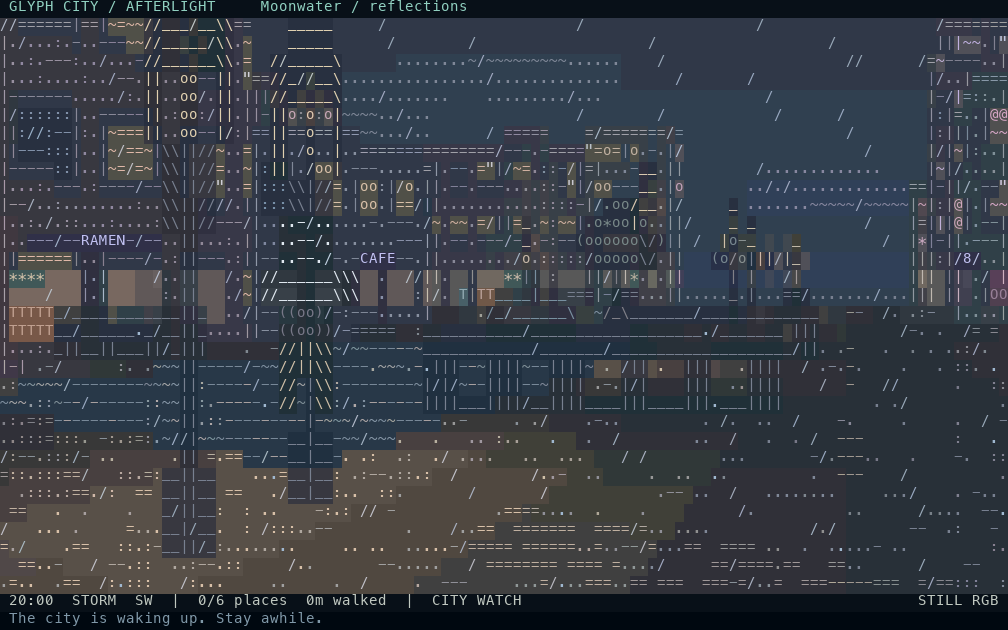
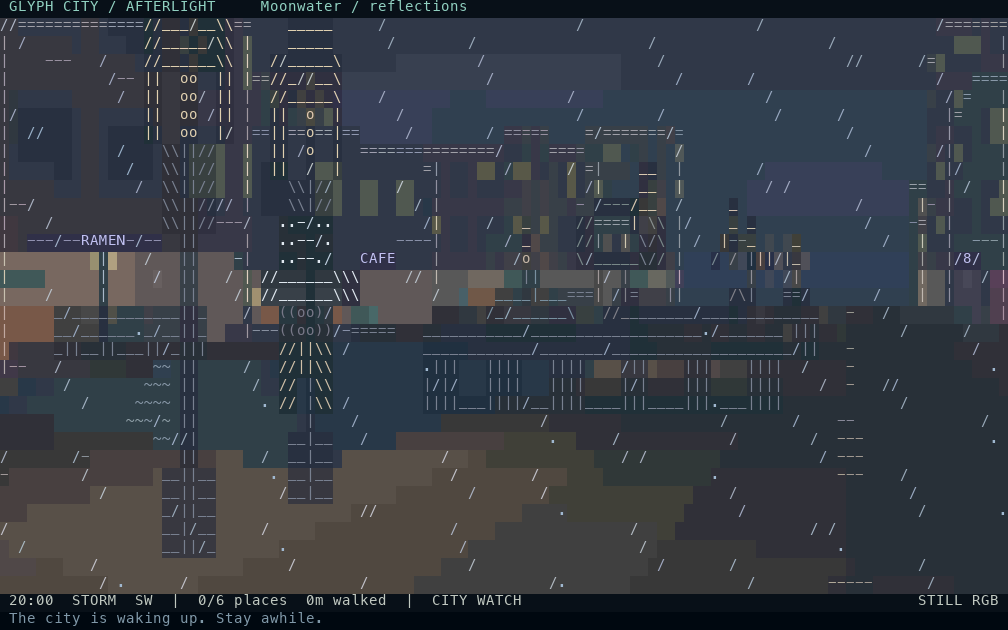
Reduce environmental ASCII noise

diff --git a/glyph_city/render.py b/glyph_city/render.py
@@ -111,13 +111,13 @@ def cell(ch, fg, bg):
 
 
 ART = {
-    'tree': (('   .-oo-.   ',' .o*oooo*o. ','(ooo*oooooo)',' `oo*ooo*-\' ','    ||     ','    ||     ','   /__\\    '),2.6,4.2),
+    'tree': ((' .---. ','/     \\','\\_____/','   |   ','   |   ','  /_\\  '),2.6,4.2),
     'lamp': (('  ___  ',' /___\\ ',' | o | ','  \\|/  ','   |   ','   |   ','   |   ','  _|_  '),.75,3.8),
     'bench': ((' _______ ','|=======|','|_______|',' ||   || '),1.9,.9),
     'flowers': ((' * . * ','\\|/*|/','[=====]',' \\___/ '),1.1,.85),
     'fountain': (('    .    ','  . | .  ',' . \\|/ . ','  \\ | /  ',' ~~~|~~~ ','(=======)',' \\_____/ '),2.8,2.3),
     'rail': (('___________','| | | | | |','|_|_|_|_|_|'),4,.9),
-    'stall': (('  /=====\\  ',' /_/___\\_\\ ',' |       | ',' | [tea] | ',' |=======| '),2.6,2.2),
+    'stall': (('  /---\\  ',' /     \\ ',' | tea | ',' |_____| '),2.6,2.2),
     # People use a wider silhouette so they remain legible in rain and at
     # terminal sizes where a one-column body disappears into facade texture.
     'person': (('  o  ',' /|\\ ',' /|\\ ',' / \\ '),.86,2.05),
@@ -220,9 +220,10 @@ class Renderer:
                              +.5*math.sin(az*13-ratio*11+world.time*.015))
                     ch, fg, cbg = ' ',scale(bg,1.2),bg
                     if .17 < ratio < .76 and cloud > 1.1-world.cloud*.75:
-                        ch = '~' if cloud>1.15 else '.'
                         fg = mix(bg,(206,199,186),.22+.28*day)
-                        cbg = mix(bg,fg,.15)
+                        # Cloud mass reads through its color, not a sheet of
+                        # repeated dots and tildes behind the buildings.
+                        cbg = mix(bg,fg,.28)
                     elif self.night>.6 and world.cloud<.5:
                         star = grain(int((az%TAU)*135),int(ratio*65),self.city.seed)
                         if star%127==0:
@@ -255,10 +256,9 @@ class Renderer:
                 for r in range(top_r,bottom_r+1):
                     z = eye+(horizon-r-.5)*dist/self.fy
                     if not 0<=z<=b.height or dist>depths[r][c]+.02: continue
-                    bay=u%1.65
                     level=z%2.8
-                    if (int(z/2.8)==0 and .18<bay<1.48 and
-                            .62<level<1.78 and .22<u<span-.22):
+                    if (int(z/2.8)==0 and .35<level<2.08
+                            and .22<u<span-.22):
                         normal=abs(dx if side==0 else dy)
                         tangent=(dy if dx>0 else -dy) if side==0 else (-dx if dy>0 else dx)
                         depth=min(4.5,(b.x1-b.x0) if side==0 else (b.y1-b.y0))
@@ -281,14 +281,14 @@ class Renderer:
                             rx,ry = coords
                             if (self.surface[rr][c]<0 and dist<reflection_depth[rr][c]
                                     and dist<32
-                                    and reflection_noise(rx,ry,city.seed,reflection_tick_value)%9!=0):
+                                    and reflection_noise(rx,ry,city.seed,reflection_tick_value)%9<2):
                                 oldch,oldfg,oldbg = buf[rr][c]
                                 # Reflections are glints on the pavement, not
                                 # a second opaque wall. Preserve lane marks,
                                 # sprites and existing road texture.
                                 if oldch in (' ','.',':','~'):
                                     alpha = world.wet*strength*(.045+.11*self.night)
-                                    buf[rr][c] = cell(':' if (rr+c)%4 else '.',
+                                    buf[rr][c] = cell(oldch,
                                                       mix(oldfg,fg,alpha),
                                                       mix(oldbg,fg,alpha*.22))
                                     reflection_depth[rr][c] = dist
@@ -315,7 +315,7 @@ class Renderer:
                 right=c==self.cols-1 or self.surface[r][c+1]!=bid
                 top=r==0 or self.surface[r-1][c]!=bid
                 ch,fg,bg=self.buffer[r][c]
-                if not (left or right or top) or ch not in (' ','.',':','-'):
+                if not (top or (left and c%3==0) or (right and c%3==0)) or ch not in (' ','.',':','-'):
                     continue
                 b=self.city.buildings[bid]
                 edge=mix(fg,(226,213,171),.34 if top else .22)
@@ -367,37 +367,37 @@ class Renderer:
         day,night,w = self.day,self.night,self.world
         ix,iy = math.floor(x),math.floor(y)
         if not 0<=ix<SIZE or not 0<=iy<SIZE or dist>FAR:
-            return cell('.',scale(self.fog,.9),scale(self.fog,.7))
+            return cell(' ',scale(self.fog,.9),scale(self.fog,.7))
         tile = self.city.tiles[iy][ix]
         h = grain(int(x*9),int(y*9),self.city.seed)
         light = local_light(self.city.glow[iy][ix],night,w.lantern and dist<9)
         bases = {'r':(58,68,78),'p':(108,106,99),'g':(45,91,68),'b':(119,103,82),'w':(34,84,103)}
         base = bases[tile]
         if tile=='w':
-            ripple=math.sin(x*3+y*2+w.time*1.6)
+            ripple=math.sin(x*.65+y*.45+w.time*.55)
             bg=mix(scale(base,.28+.72*day),self.fog,.18)
             fg=mix(bg,(141,184,184),.24+.22*max(0,ripple))
-            ch='~' if ripple>.2 else '-'
-            if night>.5 and h%9<2: fg=mix(fg,(226,168,106),.5)
+            bg=mix(bg,fg,max(0,ripple)*.18)
+            # Broad, sparse wave crests leave most of the water quiet.
+            ch='~' if dist<22 and ripple>.985 else ' '
         else:
             shade=shadow_band(x,y,self.city.seed)
             bg=scale(base,(.27+.60*day)*shade)
             fg=scale(base,(.58+.58*day)*shade)
-            ch='.' if h%7==0 else ' '
+            ch=' '
             if tile=='g':
-                ch=(',',"'",'.',';')[h%4] if h%3 else ' '
                 fg=scale((74,131,83),.3+.65*day)
-            elif tile in ('p','b'):
-                if x%1<.075 or y%1<.075: ch=':' if tile=='p' else '='
-                elif h%11==0: ch='.'
+            elif tile=='b' and dist<16:
+                if y%3<.06: ch='-'
             elif tile=='r':
                 ax=abs(x%24-12); ay=abs(y%24-12)
                 if ax<.09 and int(y/1.7)%3<2 and ay>3:
                     ch='|'; fg=scale((230,190,111),.5+.5*day)
                 elif ay<.09 and int(x/1.7)%3<2 and ax>3:
                     ch='-'; fg=scale((230,190,111),.5+.5*day)
-                elif ((3.0<ay<4.1 and ax<2.1) or (3.0<ax<4.1 and ay<2.1)) and h%3:
-                    ch='='; fg=scale((187,188,168),.35+.65*day)
+                elif ((3.0<ay<4.1 and ax<2.1) or (3.0<ax<4.1 and ay<2.1)):
+                    # Crossings are light bands instead of noisy equals.
+                    bg=mix(bg,scale((187,188,168),.35+.65*day),.35)
             if light:
                 bg=mix(bg,(134,97,55),min(.86,light*.78))
                 fg=mix(fg,(246,194,112),min(.92,light*.92))
@@ -406,7 +406,6 @@ class Renderer:
                 wet = w.wet * wetness
                 bg=mix(bg,scale(bg,.62),wet)
                 if h%17<3:
-                    ch='-' if h%2 else '.'
                     fg=mix(fg,self.fog,wet*.6)
             if w.lantern and dist<9:
                 beam=max(0,1-dist/9)*max(0,1-abs(c-self.cols/2)/(self.cols*.38))
@@ -439,7 +438,6 @@ class Renderer:
         # Keep near wall edges above the night fog floor so building shapes
         # read as planes instead of dissolving into the background.
         shade=(.58+.64*day)*(1 if side else .90)
-        shade*=shadow_band(b.x0+u,b.y0+z,b.seed)
         if self.world.lantern: shade+=max(0,1-dist/9)*.38
         base=mix(b.color,(224,153,101),self.sunset*.2)
         fg,bg=scale(base,shade),scale(base,shade*(.36+.10*day))
@@ -452,34 +450,27 @@ class Renderer:
         elif story==0 and 2.15<z<2.5 and abs(u-span/2)<len(b.sign)*.26:
             ch='-'; fg=scale(b.neon,.5); bg=scale(b.neon,.14); emits=True
         elif .18<bay<1.48 and .48<level<2.24:
-            lit=(grain(int(u/1.65),story,b.seed)%100)<(18+night*68)
-            # Thick mullions make each pane read as glass instead of one
-            # continuous colored wall when a facade is close to the camera.
+            lit=(grain(int(u/1.65),story,b.seed)%100)<(18+night*42)
+            # Frames and room surfaces use color blocks. Filling every pane
+            # with furniture glyphs used to obscure the building silhouette.
             edge=bay<.36 or bay>1.30 or level<.82 or level>1.98
             if edge:
-                ch='|' if .82<level<1.98 else '-'
+                ch=' '
                 fg=scale(base,shade*.82); bg=scale((24,29,38),.8)
             elif lit:
                 glow=mix((255,190,92),b.neon,.2)
                 glass=mix((20,27,38),glow,.26+.12*night)
                 fg=scale(glow,.9+.3*night); bg=scale(glass,.78)
-                ch, interior=window_interior(b.sign,b.seed,int(u/1.65),story,level)
-                # The colored background is the room behind the glass; the
-                # bright glyph is furniture or a person silhouette inside it.
-                bg=mix(bg,scale(interior,.20+.12*night),.32)
-                fg=mix(fg,interior,.60+.28*night)
-                if grain(int(u*11),int(z*11),b.seed)%13==0:
-                    ch='"'; fg=mix(fg,(210,230,238),.72)
+                ch=' '
                 emits=True
             else:
-                ch=':' if int(level*8)%4 else '-'
+                ch=' '
                 fg=mix((49,89,119),self.fog,.25); bg=scale(fg,.25)
         elif story==0 and abs(u-span/2)<.42 and z<1.9:
             ch='|' if abs(u-span/2)>.3 else '.'
             fg=scale(b.neon,.45); bg=(14,18,24)
         else:
-            ch=':' if (int(z*5)+int(u*6))%5==0 else '.'
-            if dist>28: ch=':' if side else '.'
+            ch=' '
         if hx is not None and hy is not None and not emits:
             ix,iy=math.floor(hx),math.floor(hy)
             if 0<=ix<SIZE and 0<=iy<SIZE:
@@ -601,7 +592,7 @@ class Renderer:
                 ch=art[ar][ac] if ac<len(art[ar]) else ' '
                 if ch==' ' or z>self.depth[r][c]+.05: continue
                 color=p.color
-                if p.kind=='tree': color=(96,148,104) if ar<4 else (137,105,74)
+                if p.kind=='tree': color=(96,148,104) if ar<3 else (137,105,74)
                 elif p.kind=='lamp': color=(255,209,123) if ar<3 else (114,127,139)
                 elif p.kind=='fountain': color=(128,196,215) if ar<5 else (136,147,155)
                 elif p.kind=='bench': color=(175,124,81)

diff --git a/glyph_city/interiors.py b/glyph_city/interiors.py
@@ -87,7 +87,7 @@ def room_pixel(sign, width, depth, u, z, direction):
     if axis==2 and point[2]<.1:
         tile=(int(point[0]*2)+int(point[1]*2))%2
         bg=(88,68,47) if tile else (112,88,61)
-        ch='.' if tile else ' '; fg=(155,125,86)
+        ch=' '; fg=(155,125,86)
         if sign in ('BAR','LOUNGE','18+'):
             bg=(84,36,58) if tile else (112,45,65); fg=(203,84,126)
     elif axis==2:
@@ -97,7 +97,7 @@ def room_pixel(sign, width, depth, u, z, direction):
         if sign in ('BAR','LOUNGE','18+'):
             fg=(232,125,158); bg=(91,37,61) if axis==1 else (55,29,52)
         if 1.25<point[2]<1.85 and abs(point[0]-width*.5)<width*.16:
-            ch='=' if point[2]<1.35 or point[2]>1.75 else '*'
+            ch=' '
             fg=(224,182,99); bg=(45,72,69)
     for bounds,color in furniture(sign,width,depth):
         hit=intersect(origin,direction,bounds)
@@ -106,14 +106,7 @@ def room_pixel(sign, width, depth, u, z, direction):
             factor=(.72,.87,1.0)[side]
             bg=tuple(int(v*factor) for v in color)
             fg=tuple(min(255,int(v*1.25)) for v in color)
-            if sign in ('BAR','LOUNGE','18+'):
-                ch='=' if side==2 else 'O'
-            elif sign in ('BOOKS','VINYL','FLORA'):
-                ch='#' if side==2 else '|'
-            elif sign in ('RAMEN','CAFE','BAKERY'):
-                ch='o' if side==2 else 'T'
-            elif sign=='JAZZ':
-                ch='~' if side==2 else 'o'
-            else:
-                ch='-' if side==2 else '|'
+            # Furniture geometry and face shading carry the shape. A glyph
+            # on every surface sample turns chairs and shelves into stripes.
+            ch=' '
     return ch,fg,bg

diff --git a/CHANGELOG.md b/CHANGELOG.md
@@ -2,6 +2,7 @@
 
 ## Current development
 
+- Simplified facade, pavement, water, cloud, window, and interior glyphs so color blocks and key silhouettes carry the scene without ASCII noise.
 - Reduced wet-road and glass reflection glare to preserve static-view silhouettes and road markings.
 - Added close-range resident faces, varied hair and skin colors, blinking eyes, and clearer umbrellas, with bounded sprite sizes and simpler distant crowds.
 - Distributed initial residents across distinct walkable cells and expanded ambient conversations to three turns, with weather-specific lines and remembered encounters.
